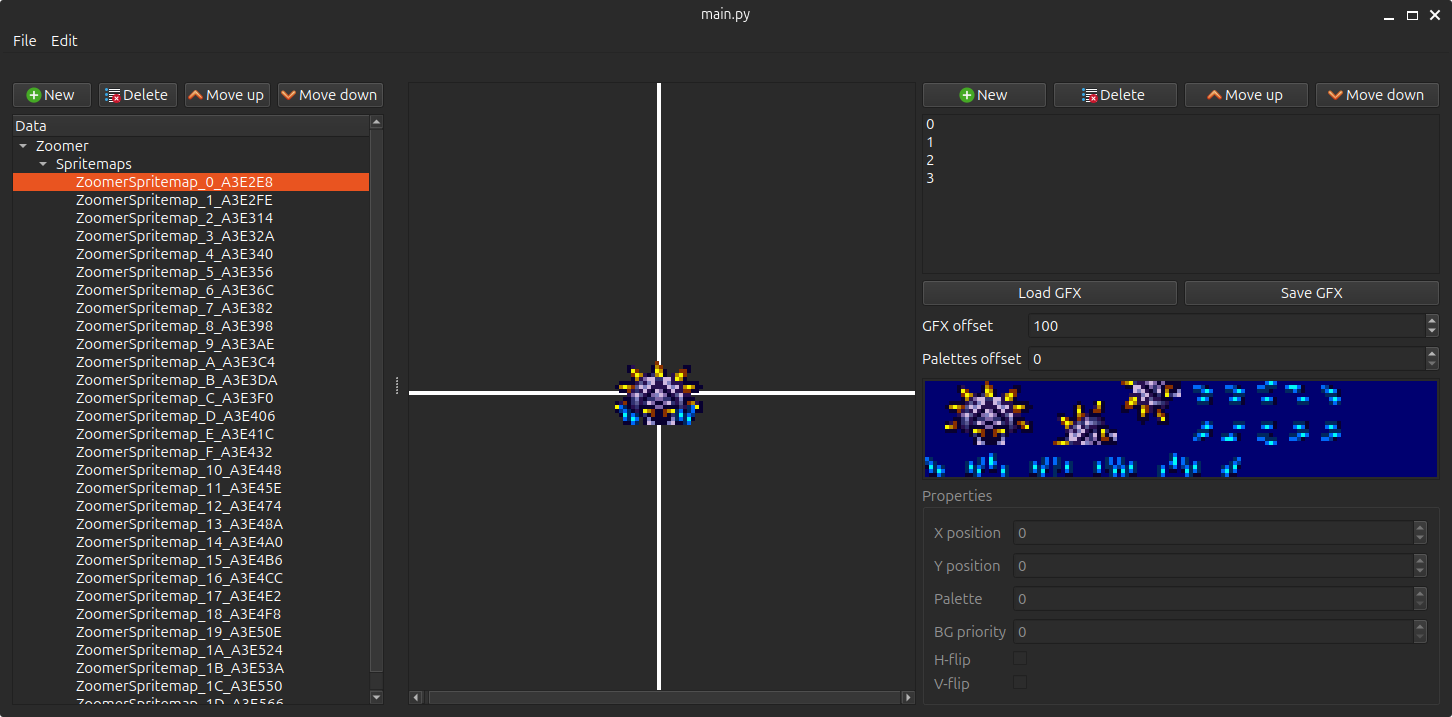
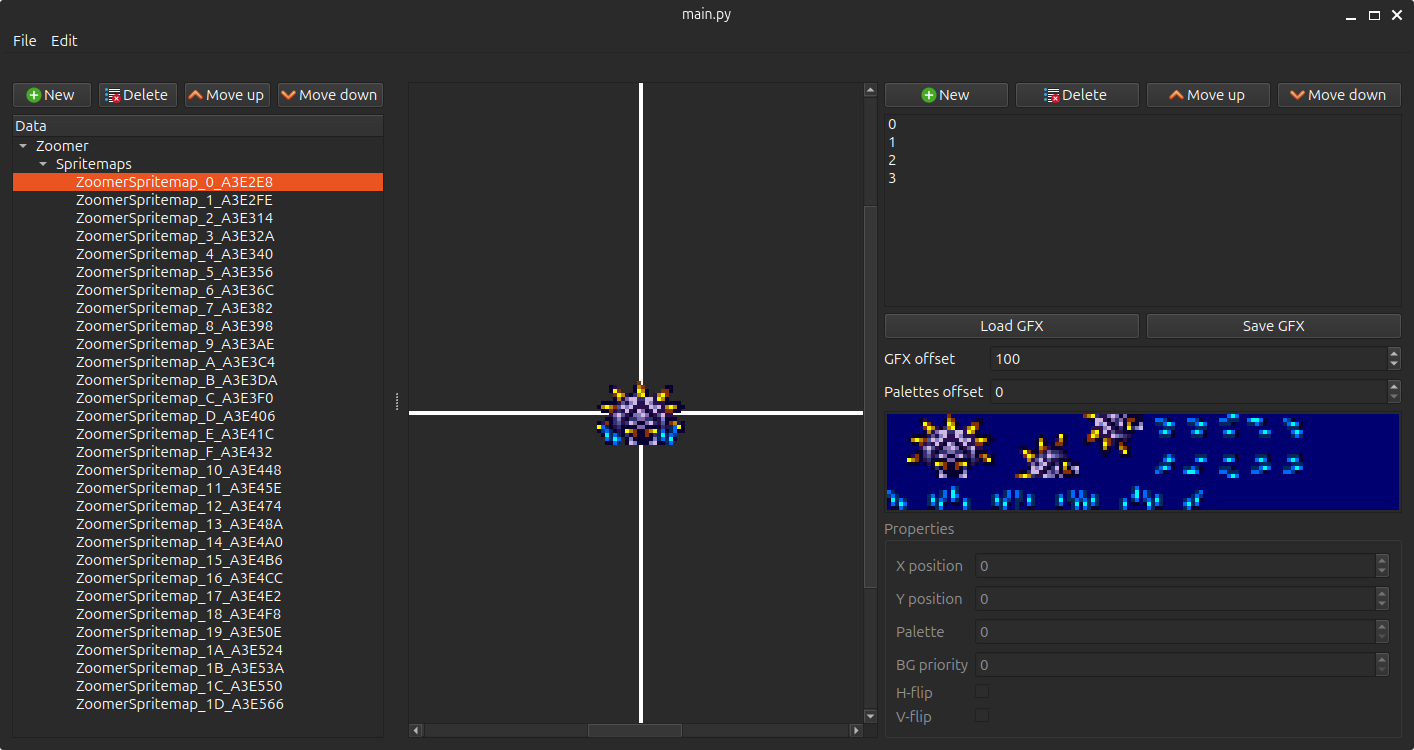
Add support for compressed graphics, a few UI tweaks

diff --git a/src/decompress.py b/src/decompress.py
@@ -1,0 +1,59 @@
+from src.romhandler import RomHandlerParent
+
+''' Based on https://patrickjohnston.org/ASM/ROM%20data/Super%20Metroid/decompress.py '''
+def decompress(rom, start):
+    curr_addr = rom.convert_to_pc_address(start) # for bankcross
+    decompressed = bytearray()
+    while True:
+        byte = rom.read(curr_addr, 1)
+        curr_addr += 1
+        if byte == 0xFF:
+            break
+
+        command = byte >> 5
+        if command != 7:
+            size = (byte & 0x1F) + 1
+        else:
+            size = ((byte & 3) << 8 | rom.read(curr_addr, 1)) + 1
+            curr_addr += 1
+            command = byte >> 2 & 7
+
+        if command == 0:
+            decompressed.extend(rom.bulk_read(curr_addr, size))
+            curr_addr += size
+        elif command == 1:
+            decompressed.extend([rom.read(curr_addr, 1)] * size)
+            curr_addr += 1
+        elif command == 2:
+            byte = rom.read(curr_addr, 1)
+            curr_addr += 1
+            decompressed.extend([byte, rom.read(curr_addr, 1)] * (size >> 1))
+            curr_addr += 1
+            if size & 1:
+                decompressed.append(byte)
+        elif command == 3:
+            byte = rom.read(curr_addr, 1)
+            curr_addr += 1
+            decompressed.extend(b & 0xFF for b in range(byte, byte + size))
+        elif command == 4:
+            offset = rom.read(curr_addr, 2)
+            curr_addr += 2
+            for i in range(offset, offset + size):
+                decompressed.append(decompressed[i])
+        elif command == 5:
+            offset = rom.read(curr_addr, 2)
+            curr_addr += 2
+            for i in range(offset, offset + size):
+                decompressed.append(decompressed[i] ^ 0xFF)
+        elif command == 6:
+            offset = len(decompressed) - rom.read(curr_addr, 1)
+            curr_addr += 1
+            for i in range(offset, offset + size):
+                decompressed.append(decompressed[i])
+        elif command == 7:
+            offset = len(decompressed) - rom.read(curr_addr, 1)
+            curr_addr += 1
+            for i in range(offset, offset + size):
+                decompressed.append(decompressed[i] ^ 0xFF)
+
+    return decompressed

diff --git a/src/main_window.py b/src/main_window.py
@@ -172,6 +172,7 @@ class MainWindow(QtWidgets.QMainWindow):
                 gfx_addr = int(self.extractDialog.genericGFXAddrInput.text(), 16)
                 gfx_size = self.extractDialog.genericGFXSizeInput.value()
                 gfx_offset = self.extractDialog.genericGFXOffsetInput.value()
+                compressed_gfx = self.extractDialog.genericCompressedGFXCheckBox.checkState() == QtCore.Qt.Checked
                 pal_addr = int(self.extractDialog.genericPalAddrInput.text(), 16)
                 pal_count = self.extractDialog.genericPalCountInput.value()
                 pal_offset = self.extractDialog.genericPalOffsetInput.value()
@@ -182,18 +183,18 @@ class MainWindow(QtWidgets.QMainWindow):
                     spritemap_end = int(self.extractDialog.genericSpritemapEndInput.text(), 16)
                 name = self.extractDialog.genericNameInput.text()
 
-                self.data = extract_generic(rom, gfx_addr, gfx_size, gfx_offset, pal_addr, pal_count, pal_offset, spritemap_start, name, spritemap_end)
+                self.data = extract_generic(rom, gfx_addr, gfx_size, gfx_offset, pal_addr, pal_count, pal_offset, spritemap_start, name, spritemap_end, compressed_gfx)
 
-        self.stackedWidget.setCurrentIndex(0)
         self.updateDataTree()
+        self.stackedWidget.setCurrentIndex(0)
         self.spritemapEditor.loadData(self.data)
 
     def openFile(self):
         fileName = QtWidgets.QFileDialog.getOpenFileName(self, filter='JSON files (*.json)')[0]
         if fileName != '':
             self.data = json.load(open(fileName, 'r'))
-            self.stackedWidget.setCurrentIndex(0)
             self.updateDataTree()
+            self.stackedWidget.setCurrentIndex(0)
             self.spritemapEditor.loadData(self.data)
             self.fileNameToSave = fileName
 

diff --git a/src/spritemap_editor.py b/src/spritemap_editor.py
@@ -292,7 +292,7 @@ class SpritemapEditorWidget(QtWidgets.QWidget):
         self.spritemapScene = SpritemapScene(self)
         self.spritemapScene.selectionChanged.connect(self.spritemapSceneSelectionChanged)
         self.spritemapView = SpritemapView(self.spritemapScene)
-        self.spritemapView.setSceneRect(-64, -64, 128, 128)
+        self.spritemapView.setSceneRect(-256, -128, 512, 256)
         self.spritemapView.setDragMode(QtWidgets.QGraphicsView.RubberBandDrag)
 
         newSpriteButton = QtWidgets.QPushButton('New')
@@ -320,8 +320,8 @@ class SpritemapEditorWidget(QtWidgets.QWidget):
 
         self.tileSelectorScene = TileSelectorScene(self)
         self.tileSelectorView = QtWidgets.QGraphicsView(self.tileSelectorScene)
-        self.tileSelectorView.setSceneRect(0, 0, 16*8, 2*8)
-        self.tileSelectorView.setFixedSize(16*8*4+6, 2*8*4+6)
+        self.tileSelectorView.setSceneRect(0, 0, 16*8, 1*8)
+        self.tileSelectorView.setFixedSize(16*8*4+6, 1*8*4+6)
         self.tileSelectorView.scale(4, 4)
         self.tileSelectorImage = None
         self.tileSelectorPixmap = QtWidgets.QGraphicsPixmapItem()
@@ -526,7 +526,8 @@ class SpritemapEditorWidget(QtWidgets.QWidget):
         self.tileSelectorImage = to_qimage(canvas, self.data['palette'], 0, 0, 16*8, (tileCount-1)//16*8+8)
         self.tileSelectorPixmap.setPixmap(QtGui.QPixmap.fromImage(self.tileSelectorImage))
         self.tileSelectorView.setSceneRect(0, 0, 16*8, (tileCount-1)//16*8+8)
-        self.tileSelectorView.setFixedSize(16*8*4+6, ((tileCount-1)//16*8+8)*4+6)
+        #self.tileSelectorView.setFixedSize(16*8*4+6, ((tileCount-1)//16*8+8)*4+6)
+        self.tileSelectorView.setMaximumHeight(((tileCount-1)//16*8+8)*4+6)
 
     def loadTilesClicked(self):
         if self.tileSelectorImage != None:

diff --git a/src/extract_dialog.py b/src/extract_dialog.py
@@ -24,6 +24,7 @@ class ExtractDialog(QtWidgets.QDialog):
         self.genericGFXOffsetInput = QtWidgets.QSpinBox(self)
         self.genericGFXOffsetInput.setRange(0, 0x1FF)
         self.genericGFXOffsetInput.setDisplayIntegerBase(16)
+        self.genericCompressedGFXCheckBox = QtWidgets.QCheckBox(self)
         self.genericPalAddrInput = QtWidgets.QLineEdit(self)
         self.genericPalCountInput = QtWidgets.QSpinBox(self)
         self.genericPalCountInput.setRange(1, 8)
@@ -49,8 +50,9 @@ class ExtractDialog(QtWidgets.QDialog):
 
         genericForm = QtWidgets.QFormLayout(self)
         genericForm.addRow('GFX address', self.genericGFXAddrInput)
-        genericForm.addRow('GFX count in tiles', self.genericGFXSizeInput)
+        genericForm.addRow('GFX size in tiles', self.genericGFXSizeInput)
         genericForm.addRow('GFX offset in tiles', self.genericGFXOffsetInput)
+        genericForm.addRow('Compressed GFX (ignore size)', self.genericCompressedGFXCheckBox)
         genericForm.addRow('Palettes address', self.genericPalAddrInput)
         genericForm.addRow('Palette count', self.genericPalCountInput)
         genericForm.addRow('Palettes offset', self.genericPalOffsetInput)

diff --git a/src/extract_export.py b/src/extract_export.py
@@ -1,5 +1,6 @@
 from src.romhandler import RomHandlerParent
 from src.gfx import add_to_canvas_from_spritemap, bounding_box, to_qimage
+from src.decompress import decompress
 import base64, os, struct
 
 def decode_spritemap_entry(entry):
@@ -23,8 +24,11 @@ def encode_spritemap_entry(entry):
         ((entry['tile'] & 0x100) >> 8) | ((entry['palette'] & 0b111) << 1) | ((entry['bg_priority'] & 0b11) << 4) | (0x40 * entry['h_flip']) | (0x80 * entry['v_flip'])
     )
 
-def extract_generic(rom, gfx_addr, gfx_size, gfx_offset, pal_addr, pal_count, pal_offset, spritemap_start, name, spritemap_end=None):
-    gfx = rom.bulk_read_from_snes_address(gfx_addr, gfx_size*32)
+def extract_generic(rom, gfx_addr, gfx_size, gfx_offset, pal_addr, pal_count, pal_offset, spritemap_start, name, spritemap_end=None, compressed_gfx=False):
+    if compressed_gfx:
+        gfx = decompress(rom, gfx_addr) # ignore size when gfx is compressed
+    else:
+        gfx = rom.bulk_read_from_snes_address(gfx_addr, gfx_size*32)
 
     palette555 = rom.read_from_snes_address(pal_addr, '2'*(16*pal_count))
     palette888 = [int.from_bytes([
